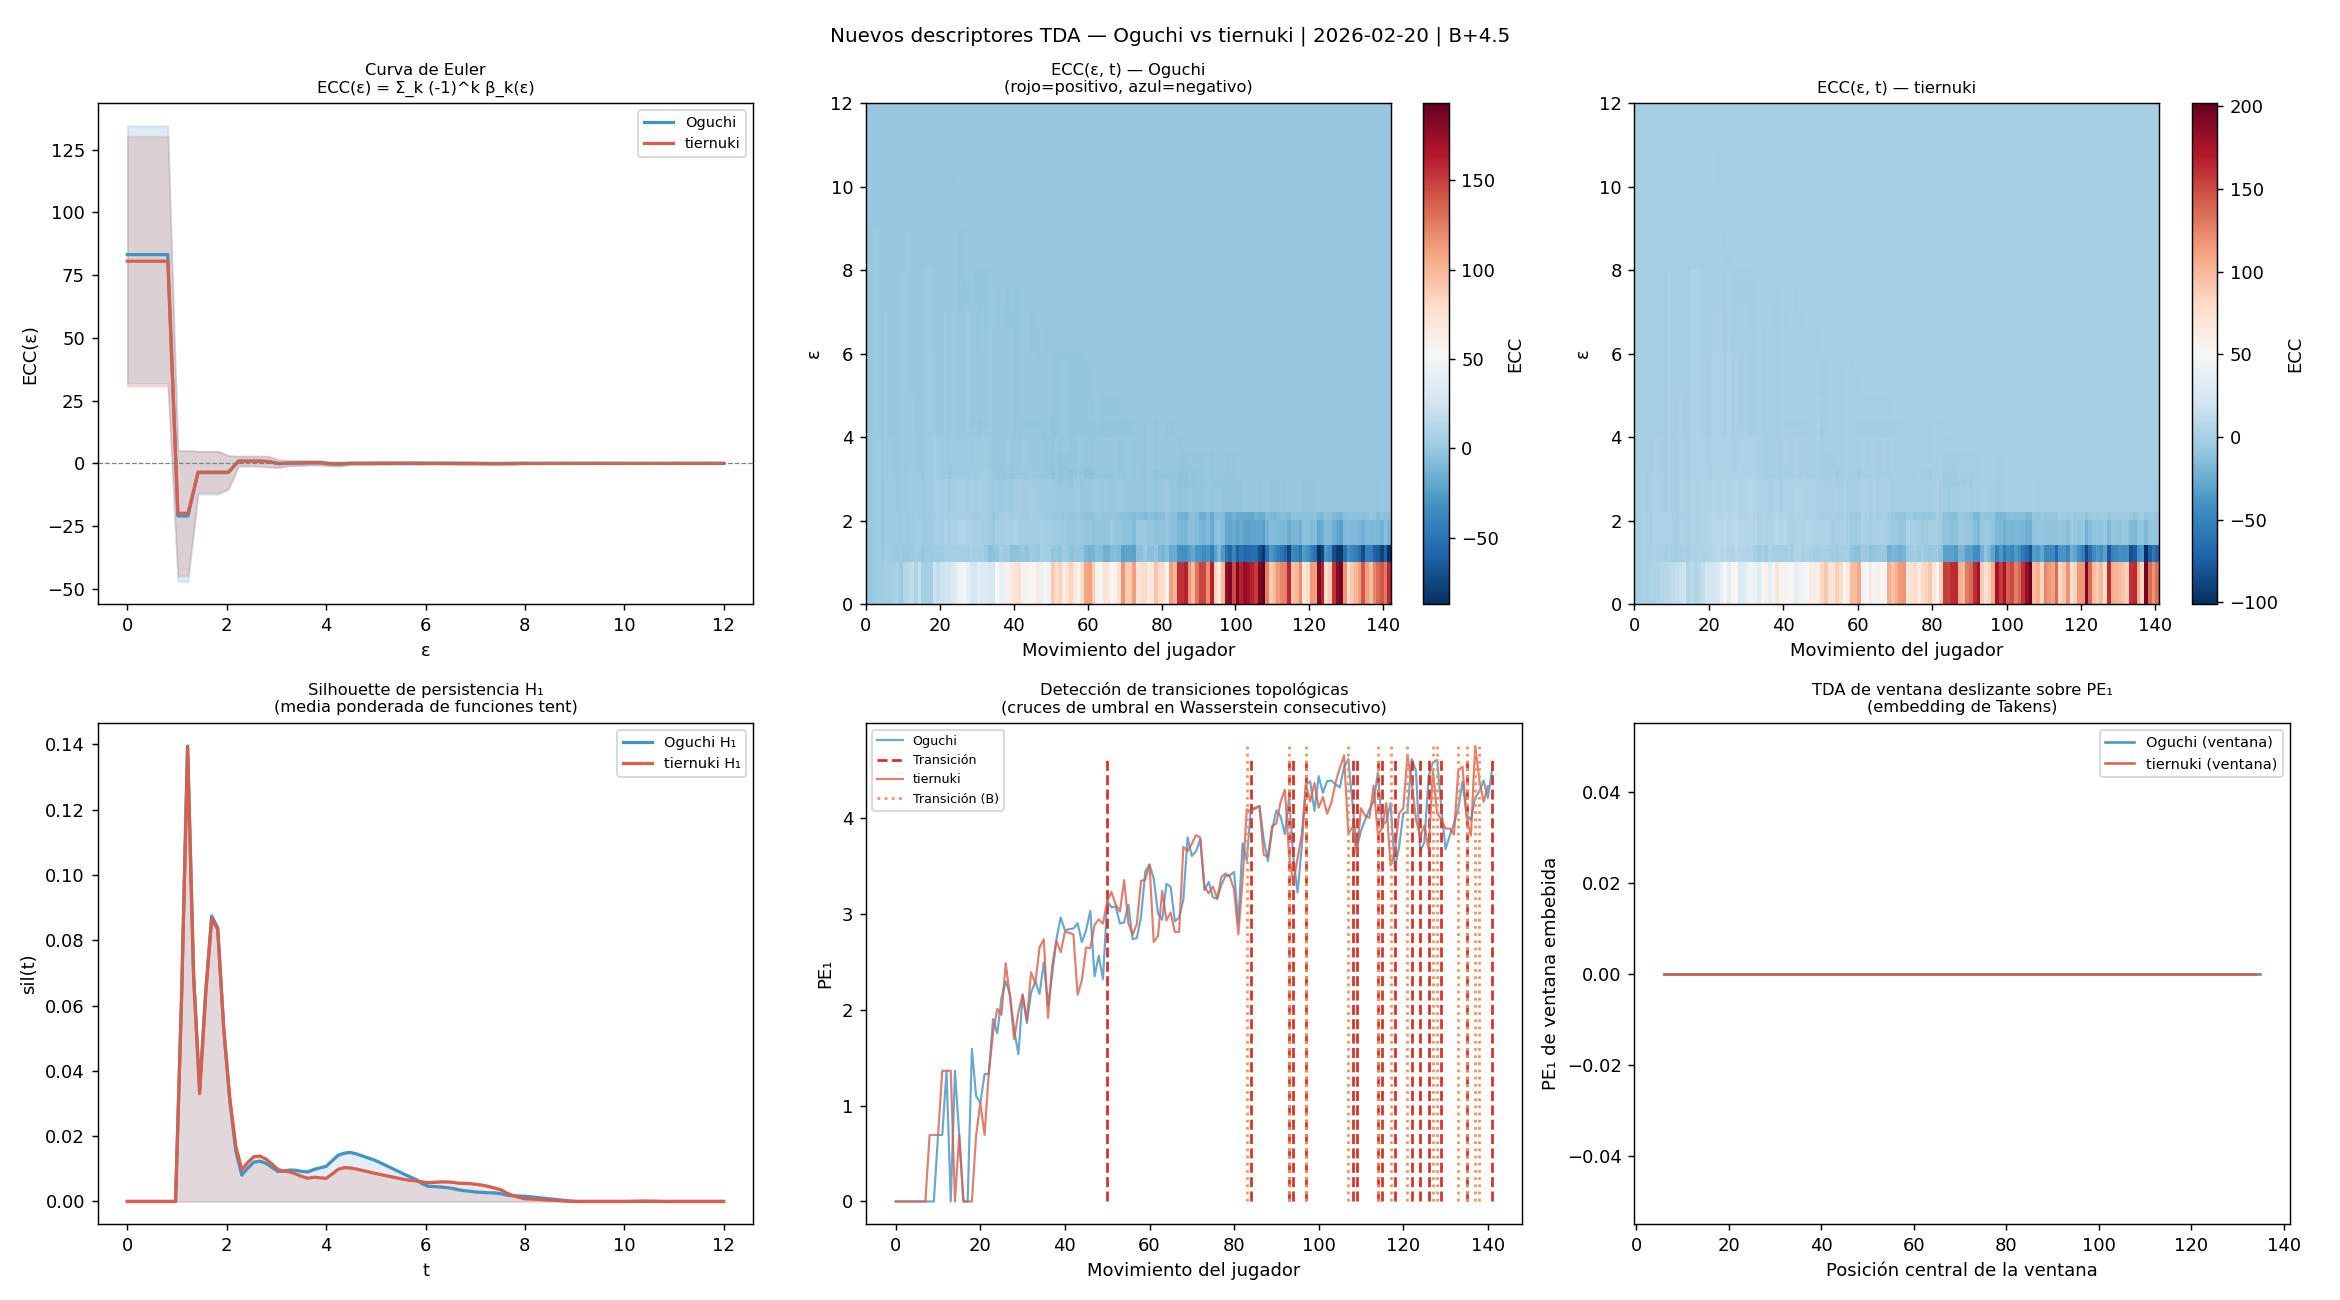
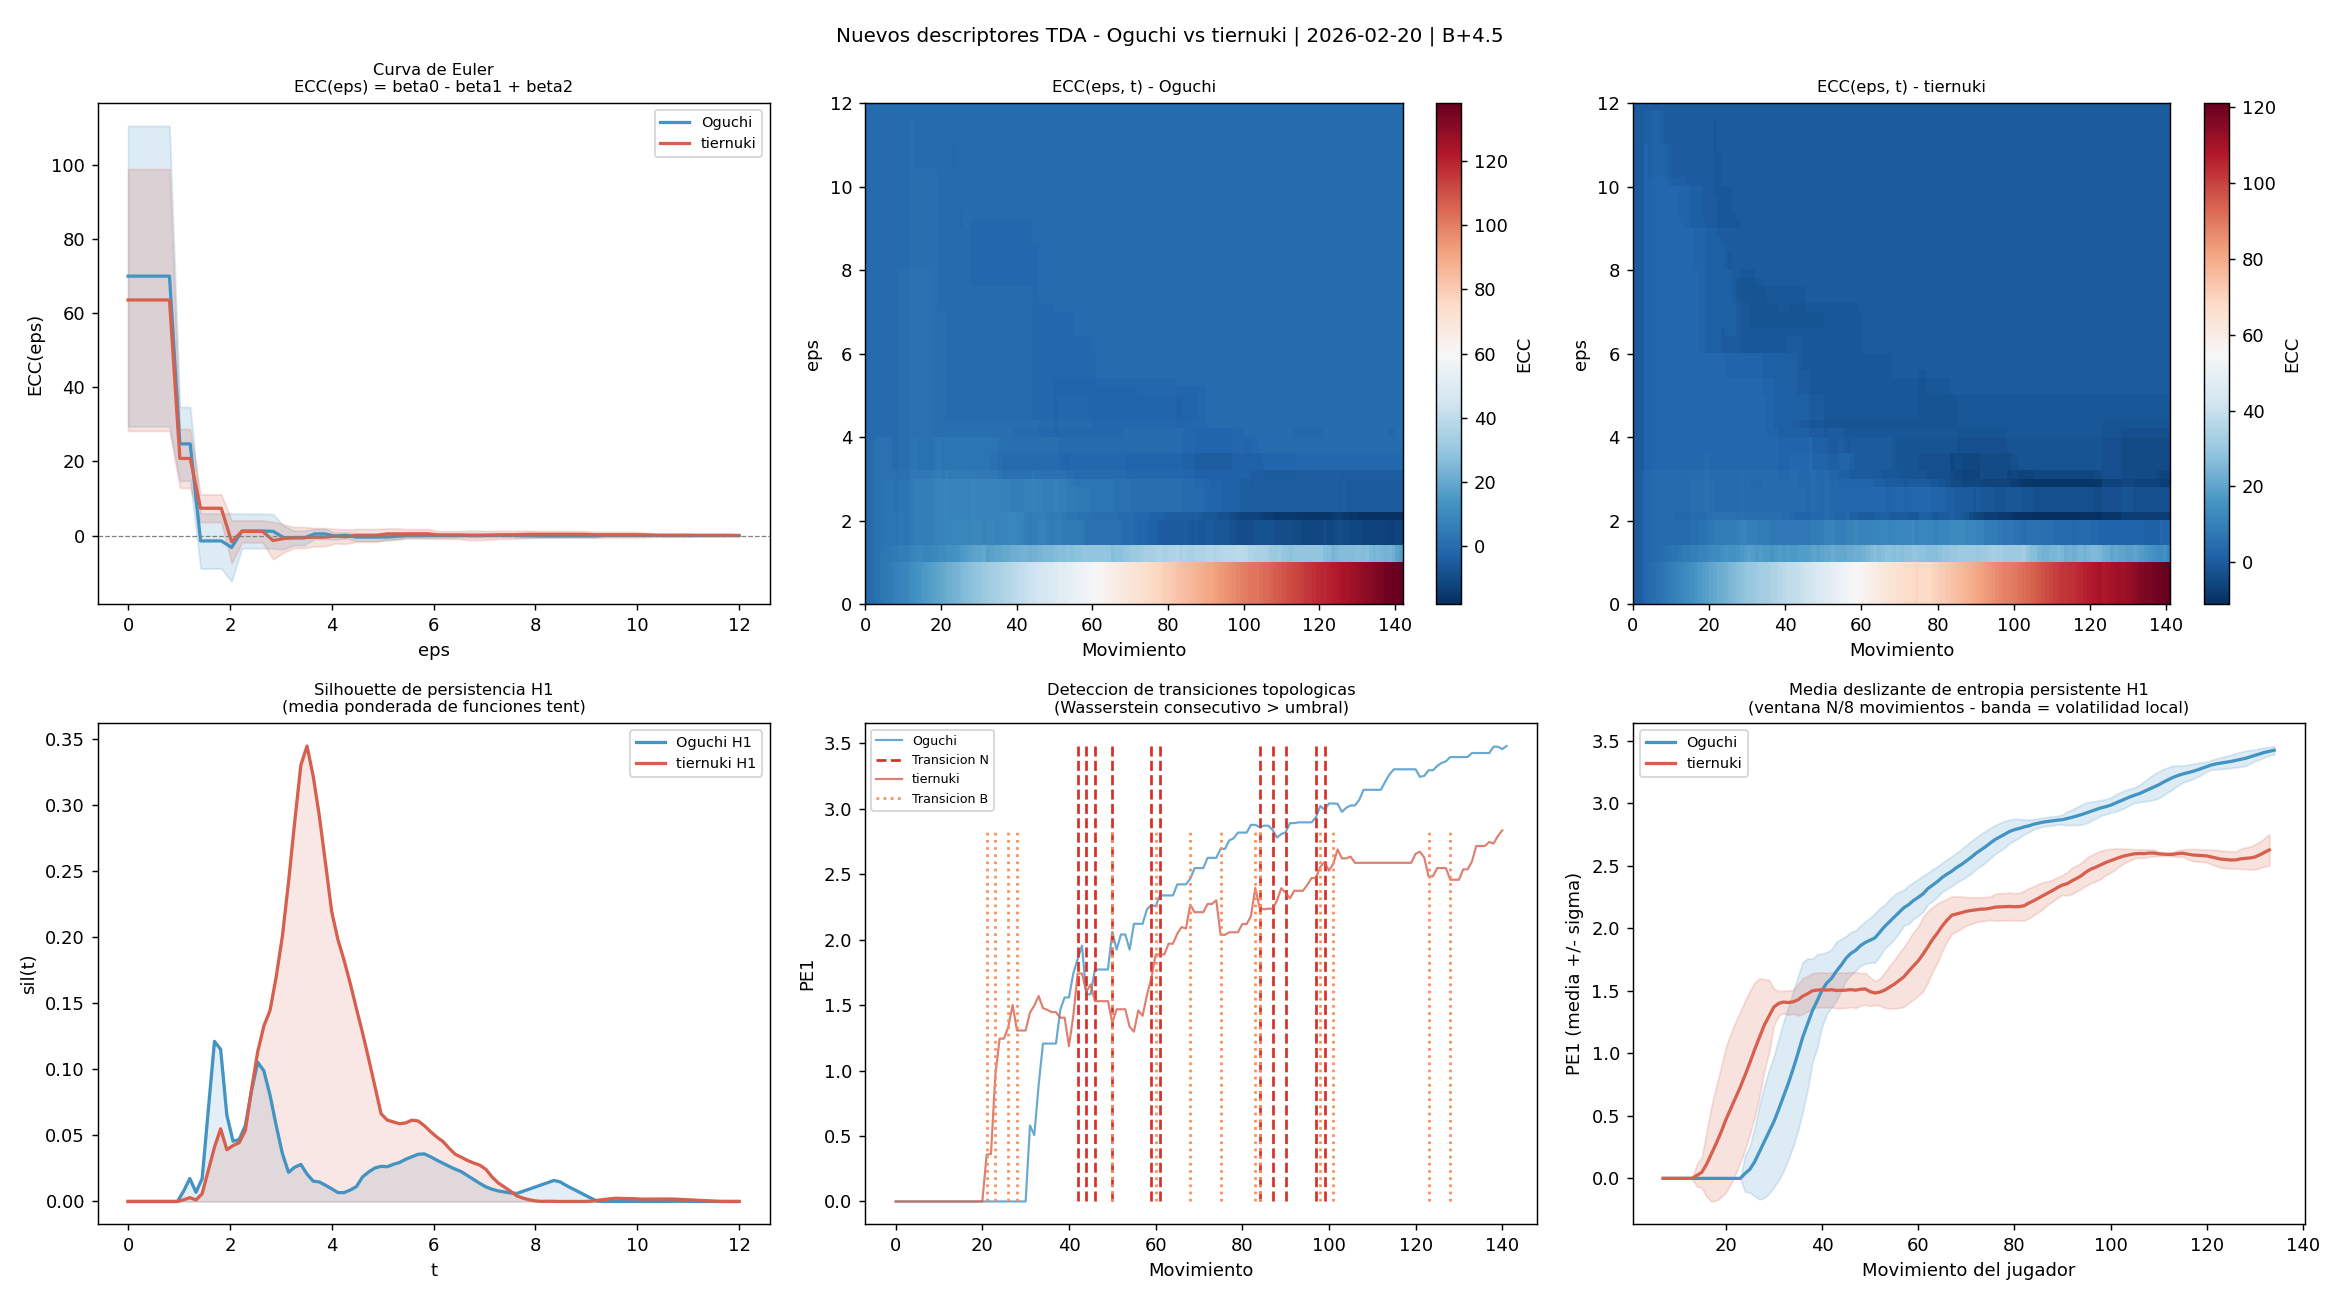
Fix sliding window panel: replace Takens TDA with rolling mean of PE1
Bug: sliding_window_tda applied Takens delay-embedding to PE1, but PE1 in
a Go game is monotonically increasing, so the embedding produces points on
a line in 2D with no H1 loops, giving trivially zero entropy in all windows.
The "oscillation near zero" was VR numerical noise, not real signal.

Fix: replace with rolling mean +/- std of PE1 directly (window = N/8 moves).
This correctly shows the smooth evolution of territorial complexity and the
local volatility band (wide band = turbulent play, narrow = consistent play).

diff --git a/analyze_game.py b/analyze_game.py
@@ -399,18 +399,25 @@ ax.set_xlabel("Movimiento del jugador"); ax.set_ylabel("PE₁")
 ax.set_title("Detección de transiciones topológicas\n(cruces de umbral en Wasserstein consecutivo)", fontsize=9)
 ax.legend(fontsize=7)
 
-# Row 1, col 2: Sliding window TDA H1 entropy
+# Row 1, col 2: Rolling mean ± std of PE₁
+# (Takens embedding of PE₁ gives trivial H₁≈0 because PE₁ is monotonic in Go;
+#  rolling statistics on PE₁ directly are far more informative)
 ax = axes_nd[1, 2]
-if sw_b:
-    sw_starts_b = [(r["start"] + r["end"]) / 2 for r in sw_b]
-    sw_ent_b = [r["h1_entropy"] for r in sw_b]
-    ax.plot(sw_starts_b, sw_ent_b, color=BEDGE, lw=1.4, label=f"{BLACK_NAME} (ventana)")
-if sw_w:
-    sw_starts_w = [(r["start"] + r["end"]) / 2 for r in sw_w]
-    sw_ent_w = [r["h1_entropy"] for r in sw_w]
-    ax.plot(sw_starts_w, sw_ent_w, color=WEDGE, lw=1.4, label=f"{WHITE_NAME} (ventana)")
-ax.set_xlabel("Posición central de la ventana"); ax.set_ylabel("PE₁ de ventana embebida")
-ax.set_title("TDA de ventana deslizante sobre PE₁\n(embedding de Takens)", fontsize=9)
+_W_b = max(5, min(15, Nb // 8))
+_W_w = max(5, min(15, Nw // 8))
+for _e1, _W, _col, _name in [(bE1, _W_b, BEDGE, BLACK_NAME),
+                               (wE1, _W_w, WEDGE, WHITE_NAME)]:
+    if len(_e1) >= _W:
+        _kernel = np.ones(_W) / _W
+        _mean = np.convolve(_e1, _kernel, mode='valid')
+        _std  = np.array([_e1[i:i+_W].std() for i in range(len(_e1) - _W + 1)])
+        _x    = np.arange(_W // 2, _W // 2 + len(_mean))
+        ax.plot(_x, _mean, color=_col, lw=1.8, label=_name)
+        ax.fill_between(_x, _mean - _std, _mean + _std, color=_col, alpha=0.18)
+ax.set_xlabel("Movimiento del jugador")
+ax.set_ylabel(f"PE₁ (media ± σ)")
+ax.set_title(f"Media deslizante de entropía persistente H₁\n"
+             f"(ventana N/8 movimientos — banda = volatilidad local)", fontsize=9)
 ax.legend(fontsize=8)
 
 plt.suptitle(f"Nuevos descriptores TDA — {TITLE}", fontsize=11)
